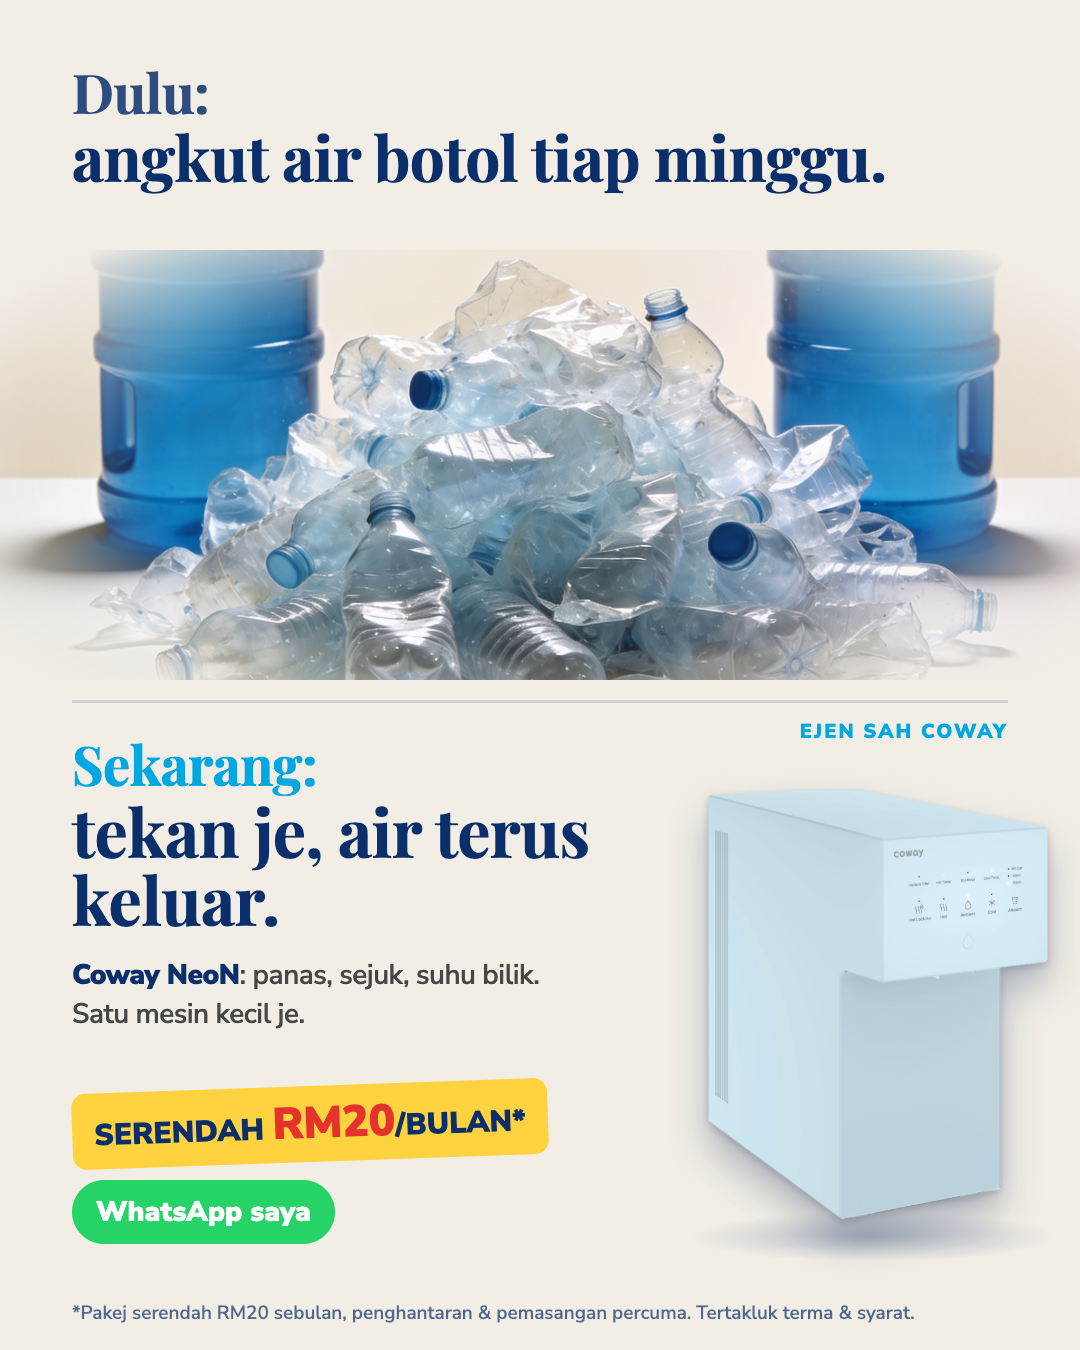
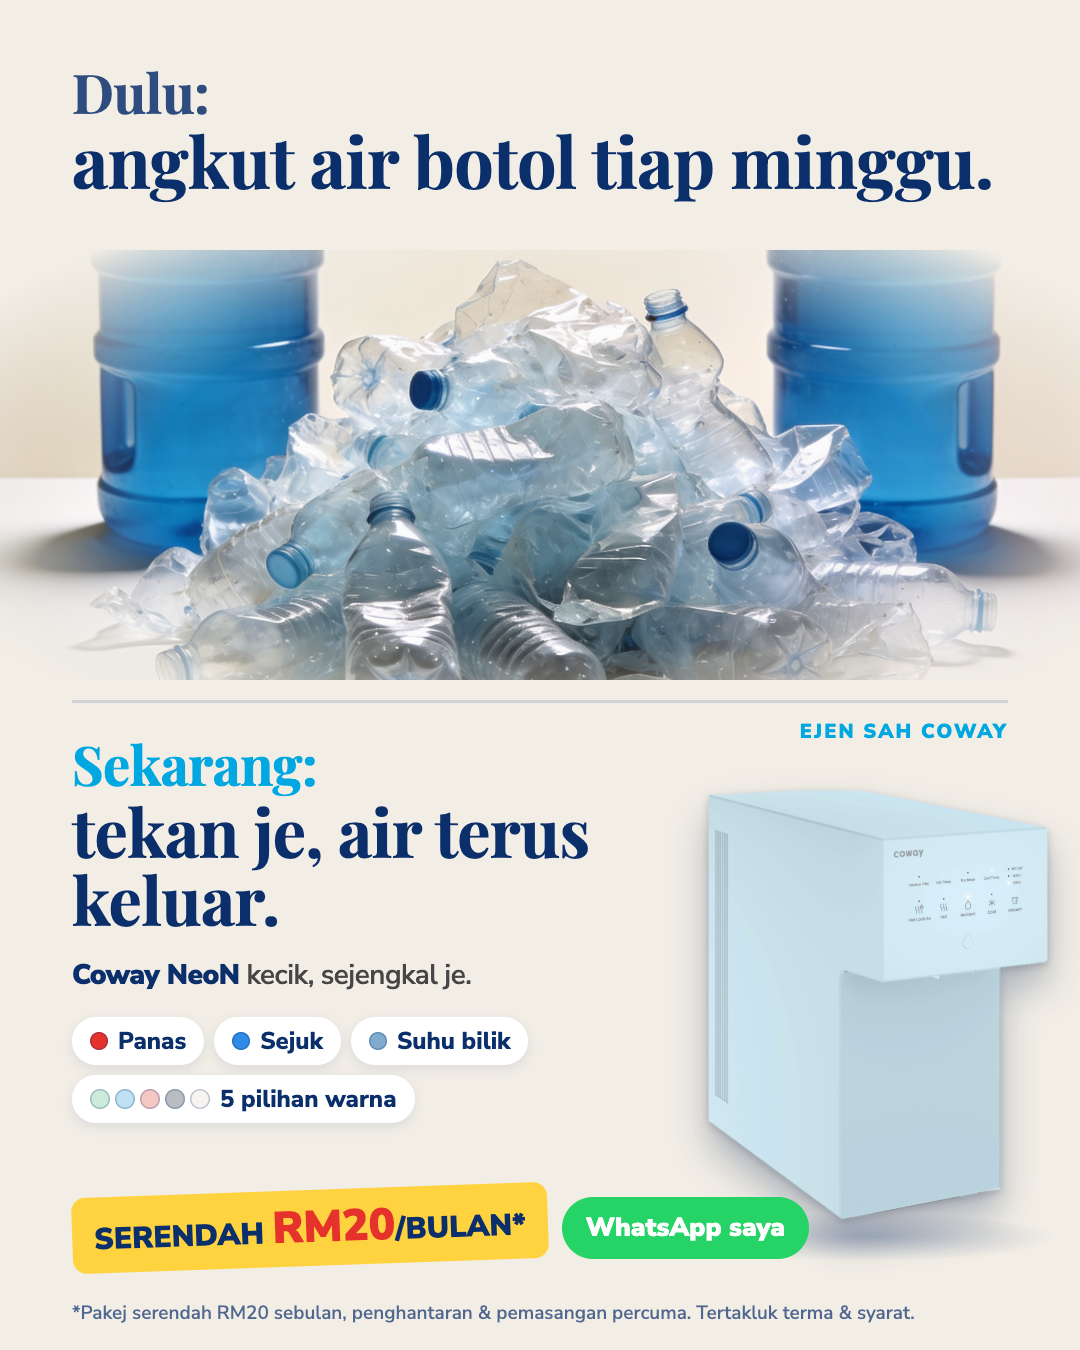
neon-swipe-01 live in Coway Azzuddin; autopilot no longer reuses losing creatives
- Posters: feature row (panas, sejuk, suhu bilik, 5 pilihan warna) on all
  four, no cm sizes ("sejengkal je"), layout waits for web fonts.
- 25 DRAF variants: 19.5 cm / A4 comparisons removed; checker flags "19.5 cm".
- 3 posters (A1, A2, B1) published into the PR06 and PR10 ad sets, replacing
  PR06 (RM40.64/message) and the PR09 creative that the engine picked by
  mistake; bank items SWIPE-A1/A2/B1 added, PR06/PR09/PR10 retired.
- Engine: tindakan carry creative_lama; rekod retires bank items whose ad lost
  and stores per-item performance so history survives when ads stop. 17 tests.

Changed region(s): [[0.0611, 0.7156, 0.7639, 0.9644], [0.0611, 0.0933, 0.9167, 0.1556]]

diff --git a/projek/neon-swipe-01/poster/templat-goodbye.html b/projek/neon-swipe-01/poster/templat-goodbye.html
@@ -30,10 +30,17 @@ body{background:#222}
 .hello .l2{font-size:66px;line-height:1.04;margin-top:4px}
 .hello p{font:600 28px/1.38 Nunito;width:560px;color:var(--ink);margin-top:22px}
 .hello p b{font-weight:900;color:var(--navy)}
-.price{position:absolute;left:72px;top:1086px;display:flex;flex-direction:column;align-items:flex-start;gap:18px}
+.chips{position:absolute;left:72px;top:var(--chips-top,1040px);width:600px;display:flex;flex-wrap:wrap;gap:10px}
+.chips span{font:800 24px/1 Nunito;color:var(--navy);background:#fff;border-radius:999px;padding:12px 18px;box-shadow:0 4px 12px rgba(11,47,107,.10)}
+.chips span{display:inline-flex;align-items:center;gap:10px}
+.chips i{display:inline-block;width:18px;height:18px;border-radius:50%;box-shadow:inset 0 0 0 1.5px rgba(11,47,107,.25)}
+.chips .dots{display:inline-flex;gap:5px}
+.chips .dots i{width:20px;height:20px}
+
+.price{position:absolute;left:72px;top:1190px;display:flex;align-items:center;gap:14px}
 .price .tag{font:900 30px/1 Nunito;color:var(--navy);background:var(--yellow);padding:16px 22px;border-radius:14px;transform:rotate(-2deg)}
 .price .tag b{font-size:44px;color:var(--hot)}
-.price .wa{font:900 28px/1 Nunito;color:#fff;background:#25D366;padding:18px 24px;border-radius:999px}
+.price .wa{font:900 26px/1 Nunito;color:#fff;background:#25D366;padding:18px 24px;border-radius:999px}
 .unit{position:absolute;right:32px;top:790px;width:340px;filter:drop-shadow(0 22px 18px rgba(11,47,107,.25)) drop-shadow(0 3px 4px rgba(0,0,0,.22))}
 .floor{position:absolute;right:22px;top:1212px;width:370px;height:50px;background:radial-gradient(ellipse at 50% 50%,rgba(11,47,107,.28),rgba(11,47,107,0) 70%)}
 .agen{position:absolute;right:72px;top:722px;font:900 20px/1 Nunito;letter-spacing:2px;color:var(--blue)}
@@ -45,14 +52,20 @@ const VARIAN = [
   { id: "goodbye-b1-angkut-air", prop: "img/bg_b1.jpg", pos: "50% 60%",
     bye1: "Dulu:", bye2: "angkut air botol tiap minggu.",
     hello1: "Sekarang:", hello2: "tekan je, air terus keluar.",
-    body: "<b>Coway NeoN</b>: panas, sejuk, suhu bilik.<br>Satu mesin kecil je.",
+    body: "<b>Coway NeoN</b> kecik, sejengkal je.",
     harga: "RM20", tnc: "*Pakej serendah RM20 sebulan, penghantaran & pemasangan percuma. Tertakluk terma & syarat." },
   { id: "goodbye-b2-masak-air", prop: "img/bg_b2.jpg", pos: "50% 58%",
     bye1: "Dulu:", bye2: "tunggu cerek berbunyi.",
     hello1: "Sekarang:", hello2: "nak air panas? Tekan je.",
-    body: "<b>Coway NeoN</b> lebar 19.5 cm je.<br>Muat dapur sempit.",
+    body: "<b>Coway NeoN</b> sejengkal je. Muat dapur sempit.",
     harga: "RM20", tnc: "*Pakej serendah RM20 sebulan, penghantaran & pemasangan percuma. Tertakluk terma & syarat." },
 ];
+// Sorotan wajib setiap poster (keputusan user 12 Nov 2026): 3 suhu + 5 pilihan warna.
+const SOROTAN = [["Panas", "#E5322D"], ["Sejuk", "#2F8BE6"], ["Suhu bilik", "#80ABCE"]];
+const WARNA = ["#CDEBD9", "#BFE1F2", "#F4C7C3", "#B9BDC1", "#F7F5F1"];   // mint, ciel blue, peach pink, pebble gray, porcelain white
+const chipHTML = (tambahan = []) => SOROTAN.map(([t, c]) => `<span><i style="background:${c}"></i>${t}</span>`).join("")
+  + `<span><b class="dots">${WARNA.map(c => `<i style="background:${c}"></i>`).join("")}</b>5 pilihan warna</span>`
+  + tambahan.map(t => `<span>${t}</span>`).join("");
 const UNIT = "img/neon-ciel-34.png";
 
 document.getElementById("root").innerHTML = VARIAN.map(v => `
@@ -64,12 +77,21 @@ document.getElementById("root").innerHTML = VARIAN.map(v => `
   <div class="agen">EJEN SAH COWAY</div>
   <div class="floor"></div>
   <img class="unit" src="${UNIT}">
+  <div class="chips">${chipHTML()}</div>
   <div class="price"><div class="tag">SERENDAH <b>${v.harga}</b>/BULAN*</div><div class="wa">WhatsApp saya</div></div>
   <div class="tnc">${v.tnc}</div>
 </div>`).join("");
+document.fonts.ready.then(() => {
 document.querySelectorAll(".bye .l2").forEach(el => {
   let fs = parseFloat(getComputedStyle(el).fontSize);
   while (el.scrollWidth > 936 && fs > 48) { fs -= 2; el.style.fontSize = fs + "px"; }
+});
+});
+document.fonts.ready.then(() => {
+document.querySelectorAll(".poster").forEach(p => {
+  const body = p.querySelector(".hello p").getBoundingClientRect(), top = p.getBoundingClientRect().top;
+  p.querySelector(".chips").style.top = (body.bottom - top + 22) + "px";
+});
 });
 </script>
 </body></html>

diff --git a/projek/neon-swipe-01/poster/templat-nah.html b/projek/neon-swipe-01/poster/templat-nah.html
@@ -36,7 +36,12 @@ body{background:#222}
 .seal .in strong{font:400 74px/.95 Lilita;color:var(--hot)}
 .seal .in em{font:900 21px/1 Nunito;font-style:normal}
 .chips{position:absolute;left:50%;top:1112px;transform:translateX(-50%);display:flex;gap:12px;white-space:nowrap}
-.chips span{font:800 28px/1 Nunito;color:var(--navy);background:#fff;border-radius:999px;padding:14px 22px;box-shadow:0 6px 16px rgba(11,47,107,.16)}
+.chips span{font:800 26px/1 Nunito;color:var(--navy);background:#fff;border-radius:999px;padding:13px 20px;box-shadow:0 6px 16px rgba(11,47,107,.16)}
+.chips span{display:inline-flex;align-items:center;gap:10px}
+.chips i{display:inline-block;width:18px;height:18px;border-radius:50%;box-shadow:inset 0 0 0 1.5px rgba(11,47,107,.25)}
+.chips .dots{display:inline-flex;gap:5px}
+.chips .dots i{width:20px;height:20px}
+
 .cta{position:absolute;left:50%;top:1196px;transform:translateX(-50%);font:900 34px/1 Nunito;color:#fff;background:#25D366;border-radius:999px;
   padding:18px 40px;white-space:nowrap;box-shadow:0 8px 18px rgba(37,211,102,.35)}
 .tnc{position:absolute;left:60px;right:60px;bottom:16px;text-align:center;font:700 19px/1.3 Nunito;color:var(--navy);background:rgba(255,255,255,.78);border-radius:999px;padding:8px 16px}
@@ -47,13 +52,19 @@ body{background:#222}
 const VARIAN = [
   { id: "nah-a1-air-botol", bg: "img/bg_a1.jpg",
     soalan: "ANGKUT AIR BOTOL?", jawapan: "TAK PAYAH DAH.", warnaJawapan: "var(--hot)",
-    harga: "RM20", chips: ["Panas", "Sejuk", "Suhu bilik"],
+    harga: "RM20",
     tnc: "*Pakej serendah RM20 sebulan, penghantaran & pemasangan percuma. Tertakluk terma & syarat." },
   { id: "nah-a2-masak-air", bg: "img/bg_a2.jpg",
     soalan: "MASAK AIR LAGI?", jawapan: "SEKARANG TEKAN JE.", warnaJawapan: "var(--blue)",
-    harga: "RM20", chips: ["Panas", "Sejuk", "Lebar 19.5 cm je"],
+    harga: "RM20",
     tnc: "*Pakej serendah RM20 sebulan, penghantaran & pemasangan percuma. Tertakluk terma & syarat." },
 ];
+// Sorotan wajib setiap poster (keputusan user 12 Nov 2026): 3 suhu + 5 pilihan warna.
+const SOROTAN = [["Panas", "#E5322D"], ["Sejuk", "#2F8BE6"], ["Suhu bilik", "#80ABCE"]];
+const WARNA = ["#CDEBD9", "#BFE1F2", "#F4C7C3", "#B9BDC1", "#F7F5F1"];   // mint, ciel blue, peach pink, pebble gray, porcelain white
+const chipHTML = (tambahan = []) => SOROTAN.map(([t, c]) => `<span><i style="background:${c}"></i>${t}</span>`).join("")
+  + `<span><b class="dots">${WARNA.map(c => `<i style="background:${c}"></i>`).join("")}</b>5 pilihan warna</span>`
+  + tambahan.map(t => `<span>${t}</span>`).join("");
 const UNIT = "img/neon-ciel-34.png";   // potongan rasmi NeoN (tanpa latar). Tukar warna = tukar fail.
 
 const ring = (txt) => `<svg viewBox="0 0 250 250"><defs><path id="c" d="M125 125 m-108 0 a108 108 0 1 1 216 0 a108 108 0 1 1 -216 0"/></defs>
@@ -69,14 +80,16 @@ document.getElementById("root").innerHTML = VARIAN.map(v => `
   <div class="agen"><small>DARI</small><b>EJEN SAH COWAY</b></div>
   <div class="seal">${ring("HANTAR PERCUMA • PASANG PERCUMA • ")}
     <div class="in"><small>SERENDAH</small><strong>${v.harga}<span style="font-size:.45em">*</span></strong><em>SEBULAN</em></div></div>
-  <div class="chips">${v.chips.map(c => `<span>${c}</span>`).join("")}</div>
+  <div class="chips">${chipHTML(v.tambahan)}</div>
   <div class="cta">WHATSAPP SAYA SEKARANG</div>
   <div class="tnc">${v.tnc}</div>
 </div>`).join("");
 // Tajuk satu baris: kecilkan sehingga muat 1000 px
+document.fonts.ready.then(() => {
 document.querySelectorAll(".h span").forEach(el => {
   let fs = parseFloat(getComputedStyle(el).fontSize);
   while (el.scrollWidth > 1000 && fs > 60) { fs -= 2; el.style.fontSize = fs + "px"; }
+});
 });
 </script>
 </body></html>

diff --git a/ads/autopilot/enjin.py b/ads/autopilot/enjin.py
@@ -167,6 +167,10 @@ def prestasi_item(item, snap):
             tot.belanja += h.belanja
             tot.mesej += h.mesej
             tot.imp += h.imp
+    # rekod tersimpan (bila iklan item dah berhenti, snapshot tak nampak dia lagi)
+    simpan = item.get("prestasi") or {}
+    if float(simpan.get("belanja", 0)) > tot.belanja:
+        tot.belanja, tot.mesej = float(simpan["belanja"]), int(simpan.get("mesej", 0))
     return tot
 
 
@@ -320,6 +324,7 @@ def nilai(snap, daftar, bank):
             nama_baru = f"{k['awalan']} | AUTO | {item['id']} | {hari_ini.strftime('%d%m%Y')}"
             pelan["tindakan"].append({
                 "jenis": "GANTI", "iklan_lama": r["id"], "nama_lama": r["nama"], "adset": adset,
+                "creative_lama": creative_by_ad.get(r["id"]),
                 "kumpulan": k_id, "sebab": r["sebab"], "diagnosis": r.get("diagnosis"),
                 "keputusan": r["keputusan"],
                 "pause_walau_gagal": r["keputusan"] == "KOSONG" or bool(r.get("bocor")),
@@ -333,6 +338,7 @@ def nilai(snap, daftar, bank):
             pause_ikut_adset.setdefault(adset, []).append(r["id"])
         elif r["keputusan"] == "KOSONG" or r.get("bocor") or tinggal >= 1:
             pelan["tindakan"].append({"jenis": "PAUSE", "iklan_lama": r["id"], "nama_lama": r["nama"], "adset": adset,
+                                      "creative_lama": creative_by_ad.get(r["id"]),
                                       "kumpulan": k_id, "sebab": r["sebab"] + "; tiada kreatif ganti dalam bank",
                                       "ad_set_kosong": tinggal < 1})
             pause_kiraan += 1
@@ -343,6 +349,12 @@ def nilai(snap, daftar, bank):
             pelan["amaran"].append(f"{r['nama']}: mahal ({r['sebab']}) tapi bank {k_id} kosong dan ia satu-satunya "
                                    "iklan dalam ad set. Dibiarkan; isi bank.")
 
+    pelan["prestasi_bank"] = {}
+    for item in bank["item"]:
+        perf = prestasi_item(item, snap)
+        if perf.belanja > 0:
+            pelan["prestasi_bank"][item["id"]] = {"belanja": round(perf.belanja, 2), "mesej": perf.mesej,
+                                                  "tarikh": snap["tarikh"]}
     pelan["stok_bank"] = stok_bank(bank, cfg, hari_ini, snap, Bv, p)
     for k_id, s in pelan["stok_bank"].items():
         if s["lulus"] < p["min_stok_bank"]:
@@ -408,7 +420,18 @@ def rekod(pelan, hasil, bank_path, log_path):
             if h.get("berjaya") and h.get("iklan_baru_id"):
                 idx[t["bank_item"]].setdefault("guna", []).append(
                     {"akaun": pelan["akaun"], "adset": t["adset"], "iklan": h["iklan_baru_id"], "tarikh": pelan["tarikh"]})
+        # kreatif yang kalah tak boleh dipilih semula (pepijat 12 Nov: PR09 dipilih kerana iklannya dah berhenti)
+        dipause = (t["jenis"] == "GANTI" and h.get("pause_lama")) or (t["jenis"] == "PAUSE" and h.get("berjaya"))
+        if dipause and t.get("creative_lama"):
+            for item in bank["item"]:
+                if t["creative_lama"] in item.get("creative_ids", []) and item.get("status") == "LULUS":
+                    item["status"] = "DIHENTIKAN"
+                    item["nota"] = f"Kalah {pelan['tarikh']} di {pelan['akaun']}: {t['sebab']}"
+                    baris.setdefault("bank_dihentikan", []).append(item["id"])
         log.append(baris)
+    for item_id, pr in (pelan.get("prestasi_bank") or {}).items():
+        if item_id in idx and float(pr["belanja"]) >= float((idx[item_id].get("prestasi") or {}).get("belanja", 0)):
+            idx[item_id]["prestasi"] = pr
     tulis(bank_path, bank)
     with open(log_path, "a", encoding="utf-8") as f:
         for b in log:

diff --git a/ads/autopilot/test_enjin.py b/ads/autopilot/test_enjin.py
@@ -166,6 +166,28 @@ class Ujian(unittest.TestCase):
         teks = enjin.laporan(self.nilai(s, [item("B", cr="n")]))
         self.assertIn("Ganti 'bad'", teks)
 
+    def test_kalah_ditanda_dihentikan_dan_prestasi_disimpan(self):
+        # PR10 kalah -> diganti; item yang creative-nya PR10 mesti jadi DIHENTIKAN
+        s = snap({"bad": ("S1", "cr-bad", "2026-11-01"), "w": ("S2", "cr-w", "2026-11-01")},
+                 {"bad": semua([50, 3000, 0.4, 13, 1.2, 0]), "w": semua([60, 3000, 2.5, 20, 1.2, 6])})
+        bank = {"item": [item("BAD", cr="cr-bad"), item("W", cr="cr-w"), item("NEW", cr="n")]}
+        pelan = enjin.nilai(s, copy.deepcopy(DAFTAR), bank)
+        self.assertEqual(pelan["tindakan"][0]["creative_lama"], "cr-bad")
+        with tempfile.TemporaryDirectory() as d:
+            bp, lp = Path(d) / "bank.json", Path(d) / "log.jsonl"
+            bp.write_text(json.dumps(bank))
+            enjin.rekod(pelan, [{"tindakan": 0, "berjaya": True, "iklan_baru_id": "X", "pause_lama": True}], bp, lp)
+            b2 = {i["id"]: i for i in json.loads(bp.read_text())["item"]}
+        self.assertEqual(b2["BAD"]["status"], "DIHENTIKAN")
+        self.assertEqual(b2["W"]["prestasi"]["mesej"], 6)
+
+    def test_rekod_tersimpan_halang_pemenang_palsu(self):
+        # item yang iklannya dah berhenti (tiada dalam snapshot) tapi rekod tersimpan kalah -> tak dipilih
+        s = snap({"bad": ("S1", "cr-bad", "2026-11-01")}, {"bad": semua([50, 3000, 0.4, 13, 1.2, 0])})
+        lama = item("LAMA", cr="cr-lama"); lama["prestasi"] = {"belanja": 122.14, "mesej": 1}
+        p = self.nilai(s, [lama, item("BARU", cr="cr-baru")])
+        self.assertEqual(p["tindakan"][0]["bank_item"], "BARU")
+
 
 class UjianSnapshot(unittest.TestCase):
     """Baris sebenar dari Meta Ads connector (11 Nov 2026), dipendekkan."""

diff --git a/.claude/skills/coway-gaya-bahasa/semak_gaya.py b/.claude/skills/coway-gaya-bahasa/semak_gaya.py
@@ -66,6 +66,8 @@ KAKU = {
     "paling laris": "dakwaan tanpa sumber Coway: buang",
     "terlaris": "dakwaan tanpa sumber Coway: buang",
     "ramai dah pasang": "bukti sosial tak disahkan: buang",
+    "19.5 cm": "jangan sebut ukuran cm; guna \"sejengkal je\" (keputusan user 12 Nov 2026)",
+    "kertas a4": "buang perbandingan ukuran; guna \"sejengkal je\"",
     "nah,": "\"nah\" dalam BM = \"nah, ambik\"; guna \"Tak payah dah.\" / \"Dah tak zaman.\"",
     "berkualiti tinggi": "sebut fakta (penapis Nanotrap, servis HEART)",
     "gaya hidup": "sebut situasi sebenar",

diff --git a/.claude/skills/coway-gaya-bahasa/SKILL.md b/.claude/skills/coway-gaya-bahasa/SKILL.md
@@ -32,11 +32,13 @@ Sampel kecil (1–7 mesej setiap iklan). Ia petanda, bukan bukti muktamad. Tapi 
 3. **Ayat pendek.** Satu idea satu ayat, ±12 perkataan. Hook ≤ 8 perkataan. Tajuk poster ≤ 6 perkataan.
 4. **Bahasa lisan, ejaan penuh.** Guna: tak, nak, dah, je, lah, kan, tau, pun, kena, ke, ni, tu, macam, ngam, takpe. Jangan singkatan SMS (x, nk, dh, sbb) dalam iklan.
 5. **Panggil orang, jangan "anda".** Ikut situasi: "Abang", "Mak-mak", "Puan", "awak", atau tiada kata ganti langsung. "Anda" hanya dalam T&C.
-6. **Sebut benda sebenar, bukan kategori.** ✗ "Pelbagai pilihan suhu air" ✓ "Panas, sejuk, suhu bilik. Tekan je." ✗ "Rekaan kompak" ✓ "Lebar 19.5 cm je."
+6. **Sebut benda sebenar, bukan kategori.** ✗ "Pelbagai pilihan suhu air" ✓ "Panas, sejuk, suhu bilik. Tekan je." ✗ "Rekaan kompak" ✓ "Kecik, sejengkal je."
 7. **Harga terus dan ringan.** "RM20 sebulan je*" · "Siap hantar & pasang free*". Bukan "Pakej serendah RM20 sahaja!*"
 8. **CTA bunyi macam ejen.** ✓ "WhatsApp saya, saya kira pakej yang ngam untuk rumah awak." ✓ "Tanya dulu pun takpe." ✗ "Klik WhatsApp untuk dapatkan maklumat lanjut sekarang!"
 9. **Emoji maksimum 3.** Satu pada hook, satu-dua pada senarai. Bukan setiap baris.
 10. **English yang orang Malaysia memang guna, boleh.** filter, promo, install, worth it, free, upgrade, servis. Elak istilah marketing (premium experience, lifestyle, elevate).
+
+**Saiz & sorotan NeoN (keputusan user 12 Nov 2026):** jangan sebut ukuran dalam cm; kalau perlu, "sejengkal je". Setiap poster NeoN mesti sorot **panas, sejuk, suhu bilik** dan **5 pilihan warna**.
 
 Peraturan fakta tetap terpakai (brand-guide, brief, `projek/*/brief.md`): harga yang disahkan sahaja, tiada dakwaan kesihatan/terlaris/bukti sosial palsu, `*Tertakluk terma & syarat.` di hujung.
 
@@ -72,7 +74,7 @@ WhatsApp saya, saya semak pakej untuk awak.
 ```
 "Abang, bila lagi nak pasang Coway?" 😂
 Dah tiga kali tanya. Abang buat-buat tak dengar.
-Coway NeoN: panas, sejuk, suhu bilik. Lebar 19.5 cm je.
+Coway NeoN: panas, sejuk, suhu bilik. 5 pilihan warna.
 RM20 sebulan je, siap hantar & pasang free*.
 WhatsApp saya sebelum hint keempat sampai.
 *Tertakluk terma & syarat.

diff --git a/.claude/skills/coway-autopilot/SKILL.md b/.claude/skills/coway-autopilot/SKILL.md
@@ -134,6 +134,6 @@ Maksimum ±15 baris. Bahasa BM santai. Jika ada tindakan atau amaran, hantar jug
 - **Semak gaya dulu**: `python3 .claude/skills/coway-gaya-bahasa/semak_gaya.py --bank ads/autopilot/bank.json --status DRAF`. Item dengan 🔴 ditulis semula ikut `coway-gaya-bahasa` sebelum ditunjuk kepada user.
 - **Lulus variasi**: tunjuk item `DRAF` dalam `bank.json` (tajuk, headline, 2 baris pertama copy). Tukar ke `LULUS` hanya yang user pilih, tambah `"diluluskan": "<tarikh>"`, commit.
 - **Promo baru / sahkan semula**: kemas kini `promo` dan `promo_sah_hingga` item berkaitan. Item yang copy-nya sebut harga lama mesti `DIHENTIKAN`, bukan dilanjutkan.
-- **Tambah kreatif**: video/poster siap dari `coway-video` / `coway-poster` → upload ke akaun (`ads_creative_upload_media`), buat creative inline sekali melalui iklan pertama atau `ads_create_creative`, kemudian tambah item dengan `creative_id`, `creative_ids`, `media`, `kumpulan`, `promo_sah_hingga`, `status: "LULUS"` (selepas user lulus).
+- **Tambah kreatif**: video/poster siap dari `coway-video` / `coway-poster` → upload fail lokal terus (`ads_create_upload_url` → curl → `ads_finalize_upload`; URL tamat ±30 min, guna serta-merta) atau dari URL (`ads_creative_upload_media`), buat creative inline sekali melalui iklan pertama atau `ads_create_creative`, kemudian tambah item dengan `creative_id`, `creative_ids`, `media`, `kumpulan`, `promo_sah_hingga`, `status: "LULUS"` (selepas user lulus).
 - **Tambah akaun**: tambah entri `akaun` dengan `kumpulan` (page_id, instagram_user_id, awalan, ID kempen), mula dengan `"mod": "cadang"` selama 2–3 hari, kemudian `auto` bila user setuju.
 - **Hentikan**: `"autopilot": false` dalam daftar.json (laporan masih jalan) atau padam jadual `coway-autopilot-harian`.

diff --git a/projek/neon-swipe-01/iklan/README.md b/projek/neon-swipe-01/iklan/README.md
@@ -1,0 +1,20 @@
+# Iklan: neon-swipe-01 (3 poster) — Coway Azzuddin
+
+12 Nov 2026, arahan user: "kalau lebih daripada kos yang saya bagi tahu, tukar kempen, buatkan 3 poster".
+Had kos = benchmark akaun × 1.3 = **RM33.84/mesej** (autopilot 12 Nov).
+
+| Ad set (kempen) | Iklan lama (di-pause) | Sebab |
+|---|---|---|
+| `promo-rm18-01 \| PR06` (120250117250070480) | PR06 (120250117895360480) | RM40.64/mesej dalam 7 hari |
+| `promo-rm18-01 \| PR10` (120250117250410480) | AUTO RM18-PR09 (120250321365430480) | kreatif PR09 dah kalah (RM122/1 mesej); dipilih silap oleh pepijat enjin |
+
+Page Coway Trusted Agent (484033591801812), IG 17841437837530722. Bajet ad set tak diubah.
+
+| Poster | Image hash | Iklan PR10 | Iklan PR06 |
+|---|---|---|---|
+| A1 Angkut air botol? Tak payah dah | 83d1d374dba566e61cfdce675e8a71f6 | 120250322936980480 | 120250322953400480 |
+| A2 Masak air lagi? Sekarang tekan je | 0b8bc98958f60f0f006970fd489e11df | 120250322948180480 | 120250322954300480 |
+| B1 Dulu / Sekarang | 23dc7a57203920e3ad9e52c784da4e10 | 120250322950740480 | 120250322956040480 |
+
+Copy: `copy.json` (lulus `semak_gaya.py`). Bank autopilot: `SWIPE-A1`, `SWIPE-A2`, `SWIPE-B1` (kumpulan trusted-agent).
+Upload terus dengan `ads_create_upload_url` → curl → `ads_finalize_upload` (URL upload tamat ±30 min; minta dan guna serta-merta).

diff --git a/projek/neon-swipe-01/README.md b/projek/neon-swipe-01/README.md
@@ -11,7 +11,7 @@ Dua templat poster iklan (pelanggan akhir) yang di-swipe dari artifak **Grüns S
 |---|---|---|---|
 | 5 Poster HTML (4) | ✅ draf | `out/neon-swipe-01/poster/{nah-a1-air-botol,nah-a2-masak-air,goodbye-b1-angkut-air,goodbye-b2-masak-air}.png` | menunggu kelulusan user |
 | Prompt Flow | ✅ draf | `poster/flow-prompts.md` | A1, A2, B1, B2 + idea varian |
-| 7 Iklan / bank autopilot | — | `ads/autopilot/bank.json` | selepas lulus: upload ke akaun Azzuddin, tambah sebagai item `fizah-wp` |
+| 7 Iklan | ✅ 12 Nov | `iklan/README.md` | A1, A2, B1 × 2 ad set promo RM18 (Coway Azzuddin), ganti PR06 & PR09; bank `SWIPE-A1/A2/B1` |
 
 ## Cara guna templat
 
@@ -31,6 +31,8 @@ Dua templat poster iklan (pelanggan akhir) yang di-swipe dari artifak **Grüns S
 - Kos Seedream: 5 gambar ≈ USD 0.20
 
 ## Keputusan
+- 2026-11-12: user: tiada ukuran cm ("sejengkal" sahaja); setiap poster sorot panas, sejuk, suhu bilik + 5 pilihan warna. Copy ikut `coway-gaya-bahasa`.
+- 2026-11-12: user: iklan melebihi had kos → tukar kepada 3 poster (A1, A2, B1).
 - 2026-11-11: user pilih templat Grüns #6/#21 dan #212, bentuk HTML + prompt Flow.
 - 2026-11-11: harga = pakej serendah RM20 sebulan + penghantaran & pemasangan percuma (disahkan 4 Nov 2026, sah hingga 30 Nov 2026 dalam bank autopilot).
 
